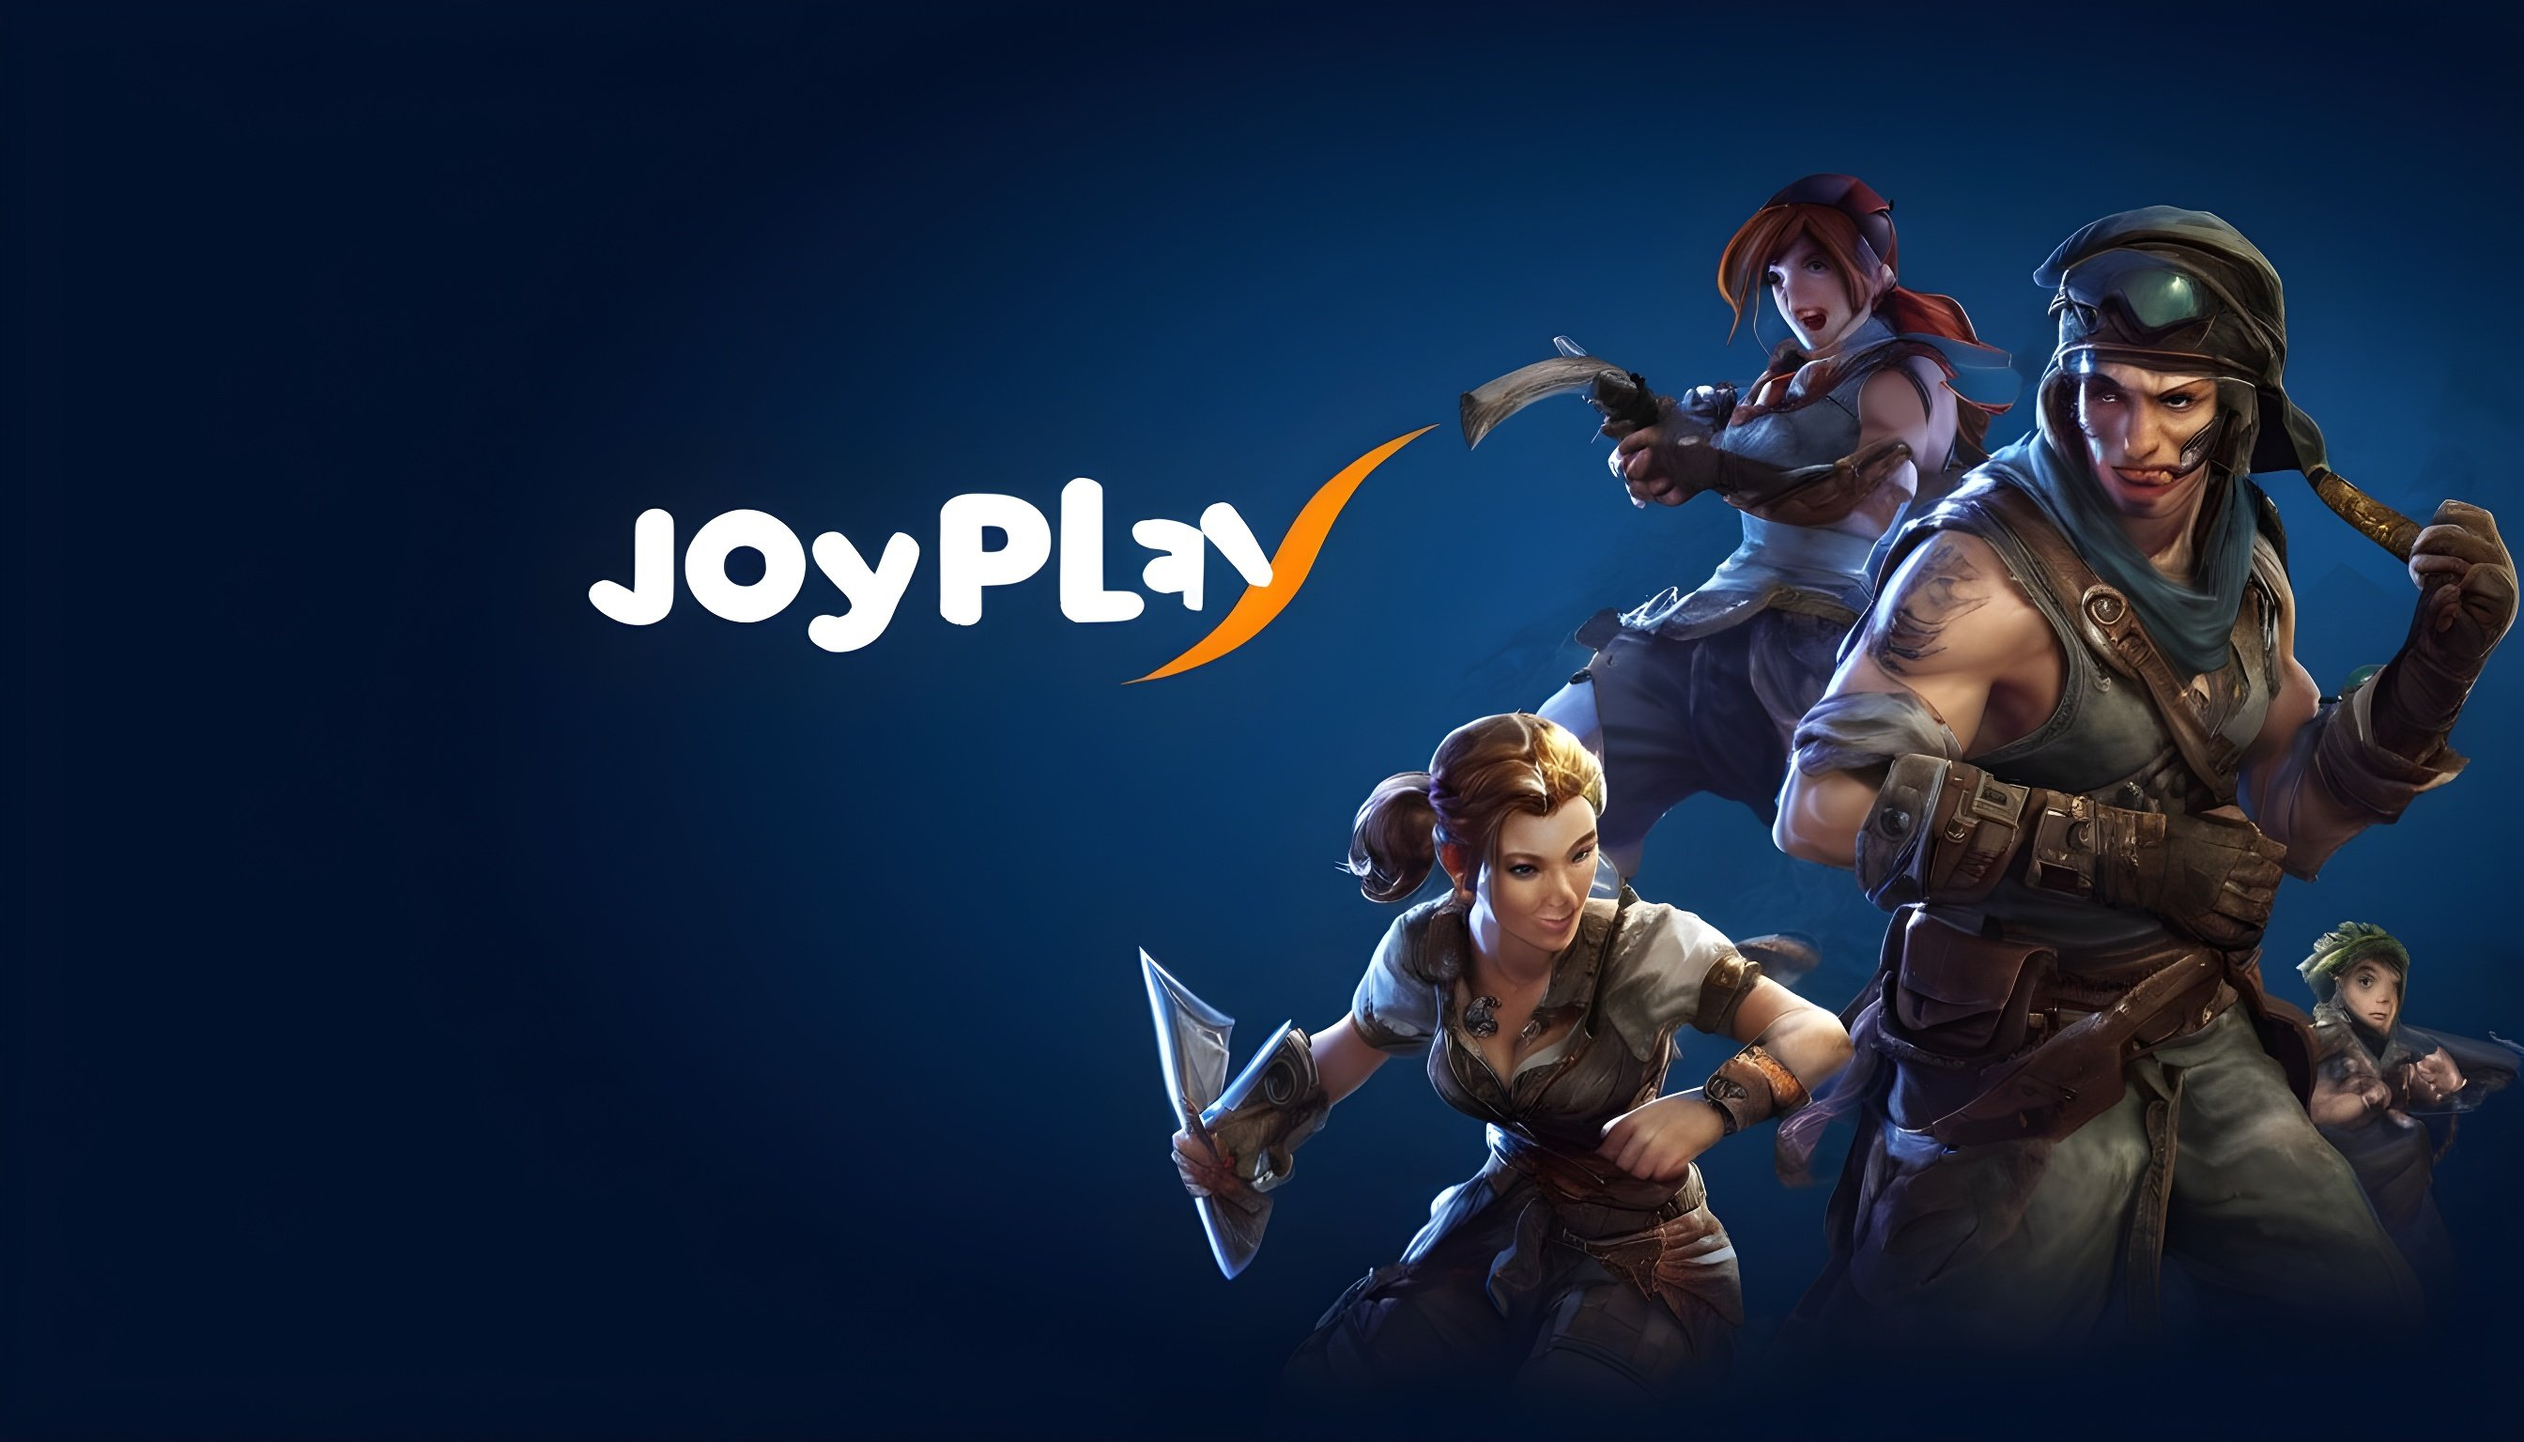
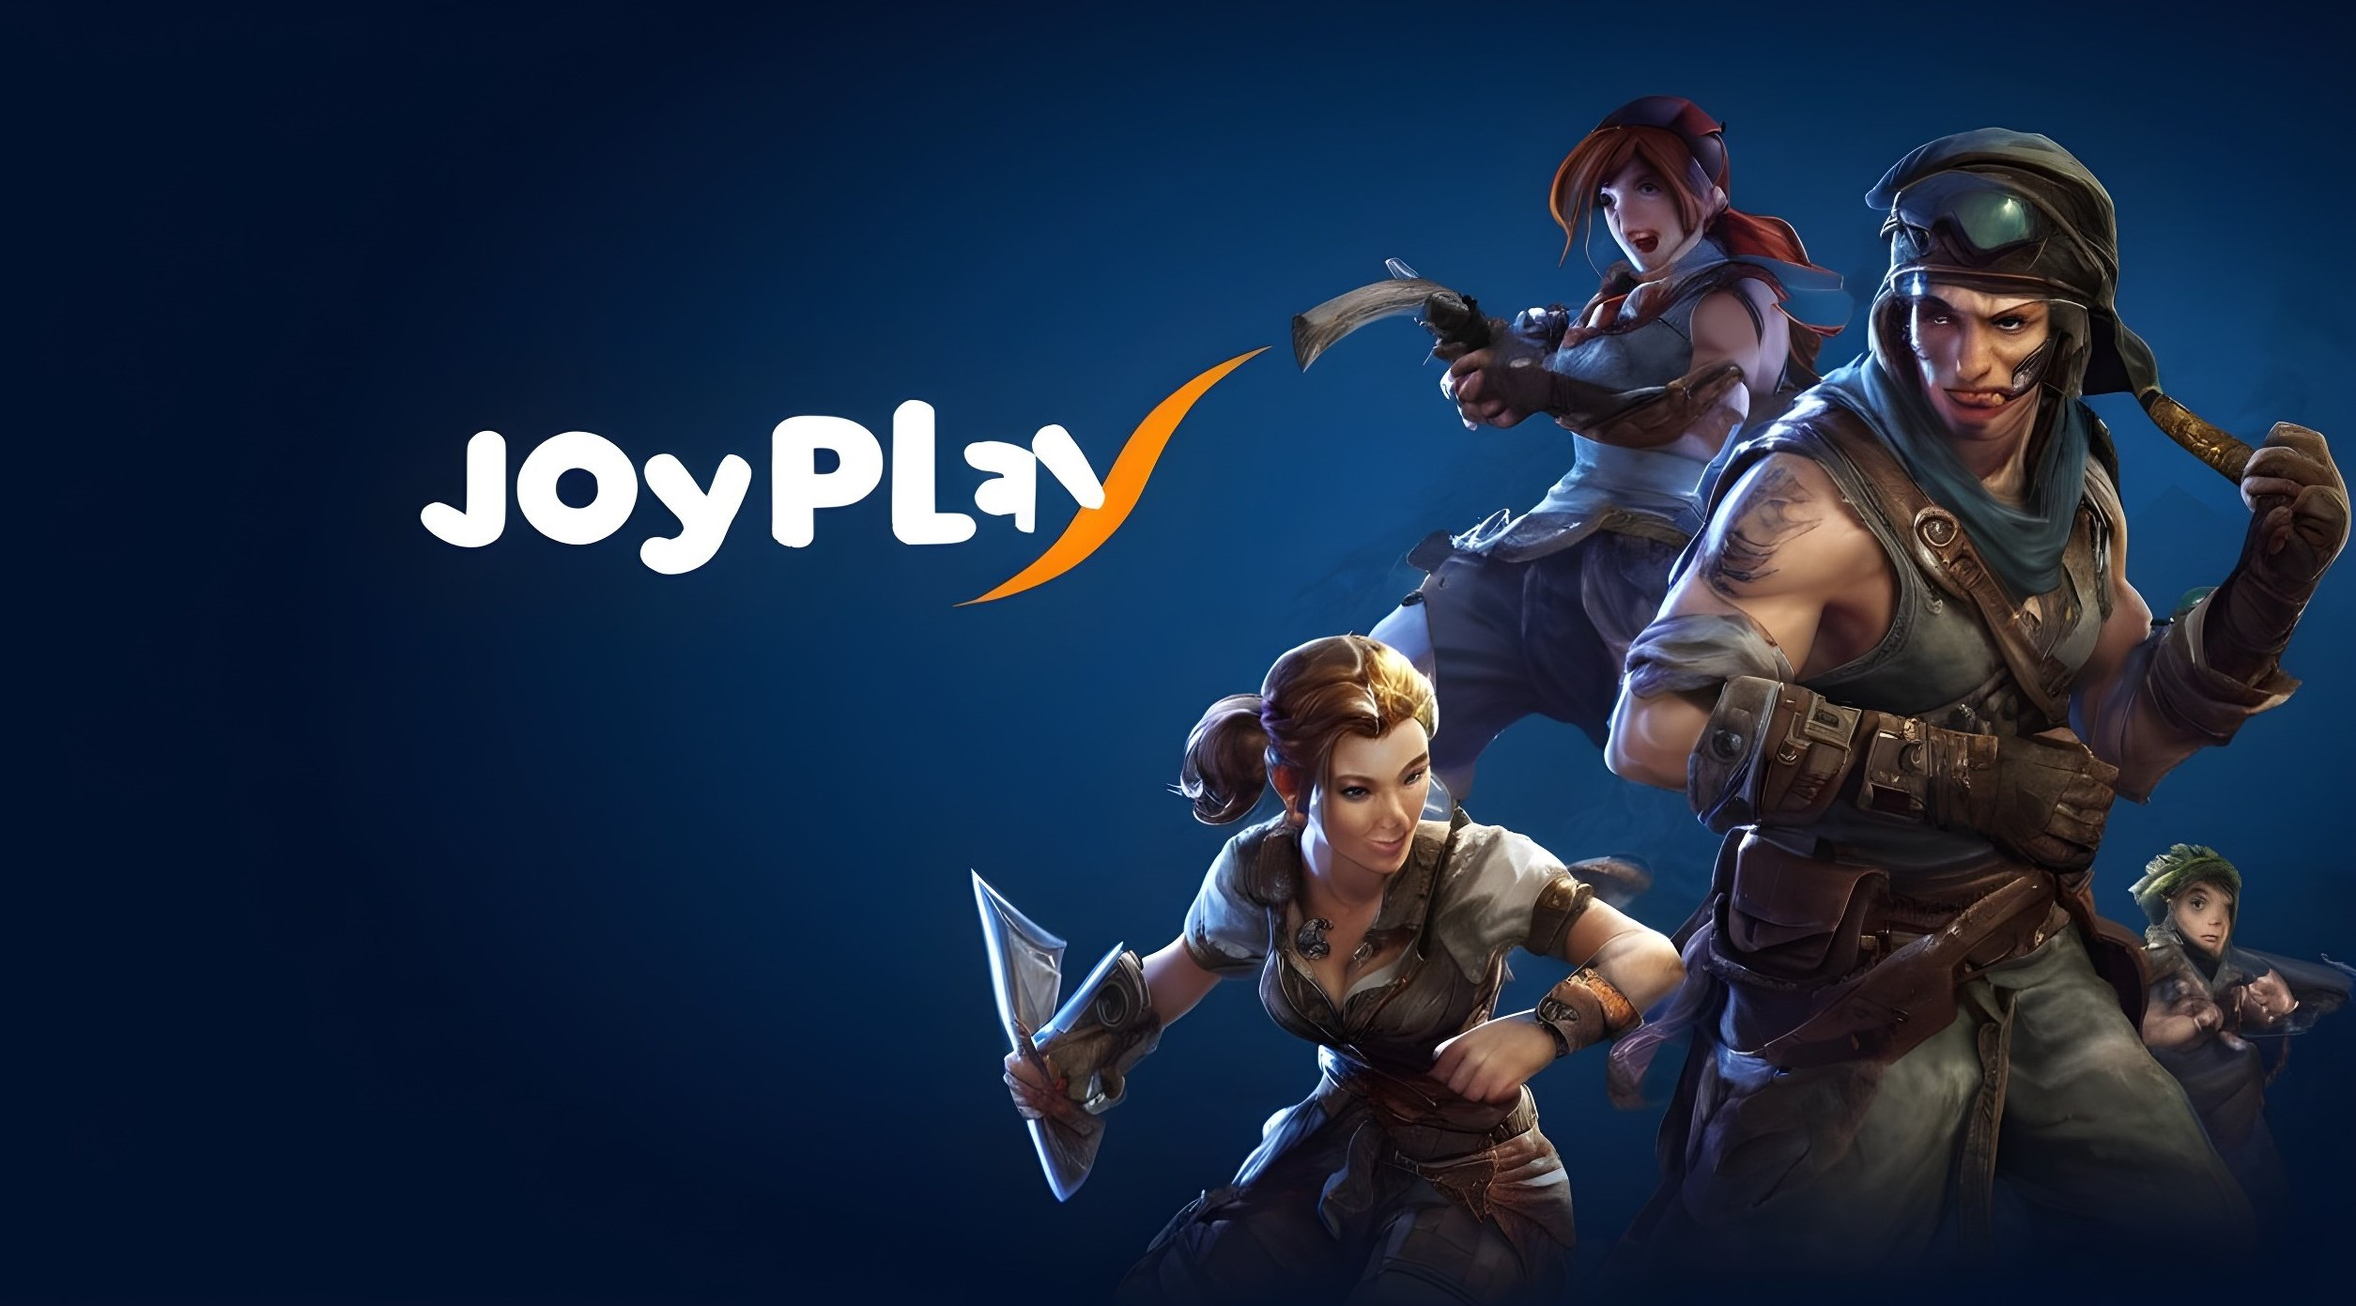
form added

Changed region(s): [[0.1554, 0.0618, 1.0, 0.9892]]

diff --git a/Client/src/components/Home.css b/Client/src/components/Home.css
@@ -10,19 +10,41 @@
   width: 30vmax;
   margin-left: 6vmax;
 }
-
+body {
+  overflow-x: hidden;
+}
 .tagline {
   color: white;
-  font-family: "Riky Vampdator Normal", sans-serif;
+
   font-size: 4.5vmax;
 }
 #parent {
-  position: fixed;
-  z-index: 0;
+  padding-top: 7vmax;
+  display: flex;
+  justify-content: end;
 }
 #parent > img {
-  size: 100%;
+  width: 88vw;
 }
-.back{
-  /* background-color: ; */
+.back {
+  background: #01112a;
+  height: 100%;
+  width: 100vw;
+}
+#explore {
+  background-color: rgb(254, 137, 6);
+  color: #fff;
+  padding: 10px 20px;
+  font-size: 16px;
+  border: none;
+  cursor: pointer;
+  transition: background-color 0.3s ease;
+  z-index: 1;
+  position: absolute;
+  top: 58%;
+  left: 35%;
+}
+
+#explore:hover {
+  background-color: rgb(255, 180, 94);
 }

diff --git a/Client/src/components/Home.jsx b/Client/src/components/Home.jsx
@@ -1,4 +1,5 @@
 import React from "react";
+import { Link } from "react-router-dom";
 import "./Home.css";
 import Navbar from "./Navbar";
 import image from "../assets/home-background.jpg";
@@ -12,7 +13,9 @@ const Home = () => {
         <img src={image} alt="" />
       </div>
       <div>
-        <button></button>
+        <Link to="/list">
+          <button id="explore">Explore Games</button>
+          </Link>
       </div>
     </div>
   );

diff --git a/Client/src/App.jsx b/Client/src/App.jsx
@@ -15,7 +15,7 @@ function App() {
         <Routes>
           <Route path="/" element={<Home />} />
           <Route path="/list" element={<List />} />
-          <Route path="/temp" element={<NewPostForm />} />
+          <Route path="/form" element={<NewPostForm />} />
           <Route path="/list/:id" element={<Edit />} />
           <Route path="/list/edit/:id" element={<EditForm />} />
           {/* Add additional routes here */}

diff --git a/Client/src/components/Navbar.jsx b/Client/src/components/Navbar.jsx
@@ -12,8 +12,8 @@ const Navbar = () => {
           </div>
         </div>
         <div className="right-nav">
-          <Link to="/list">Posts</Link>
-          <Link to="/temp">Login/SignIn</Link>
+          <Link to="/form">Add a Post</Link>
+          <Link to="/">Login/SignIn</Link>
         </div>
       </div>
       <div></div>

diff --git a/Client/src/App.css b/Client/src/App.css
@@ -5,5 +5,5 @@
   width: 100%;
   height: 100%;
   background: rgb(24, 36, 63);
-  background-size: 100% 100%;
+  /* background-size: 100% 100%; */
 }
